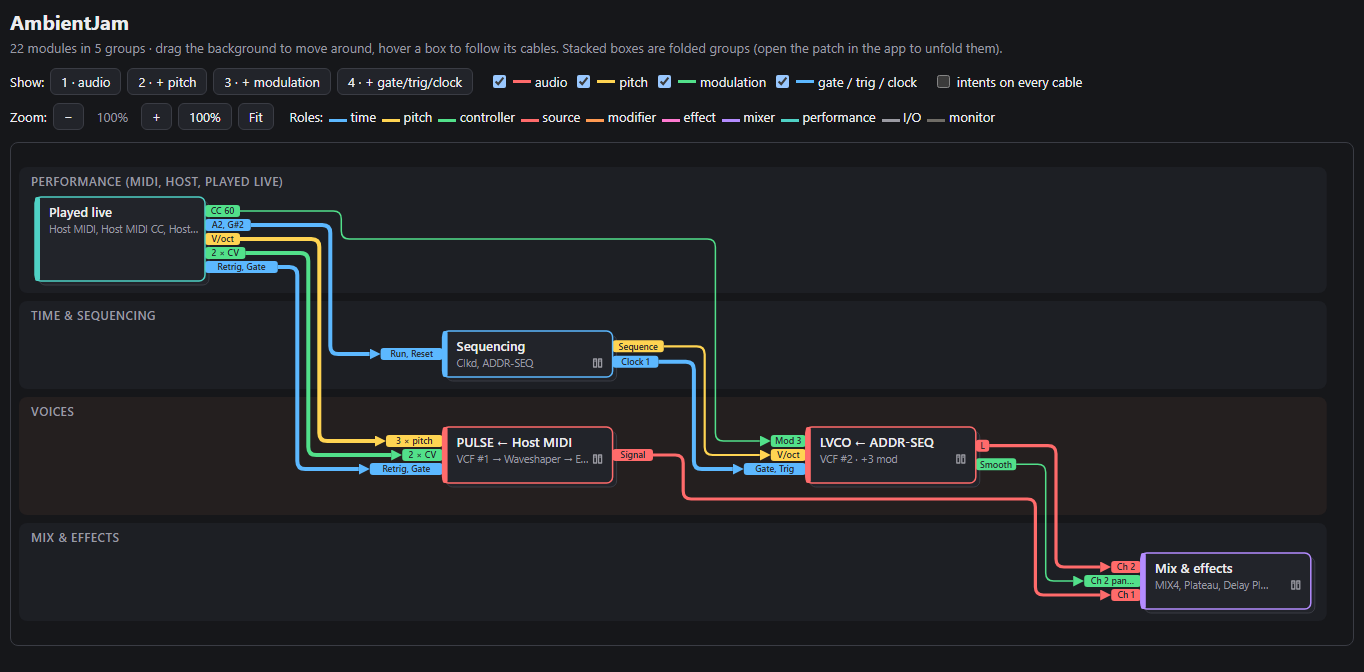
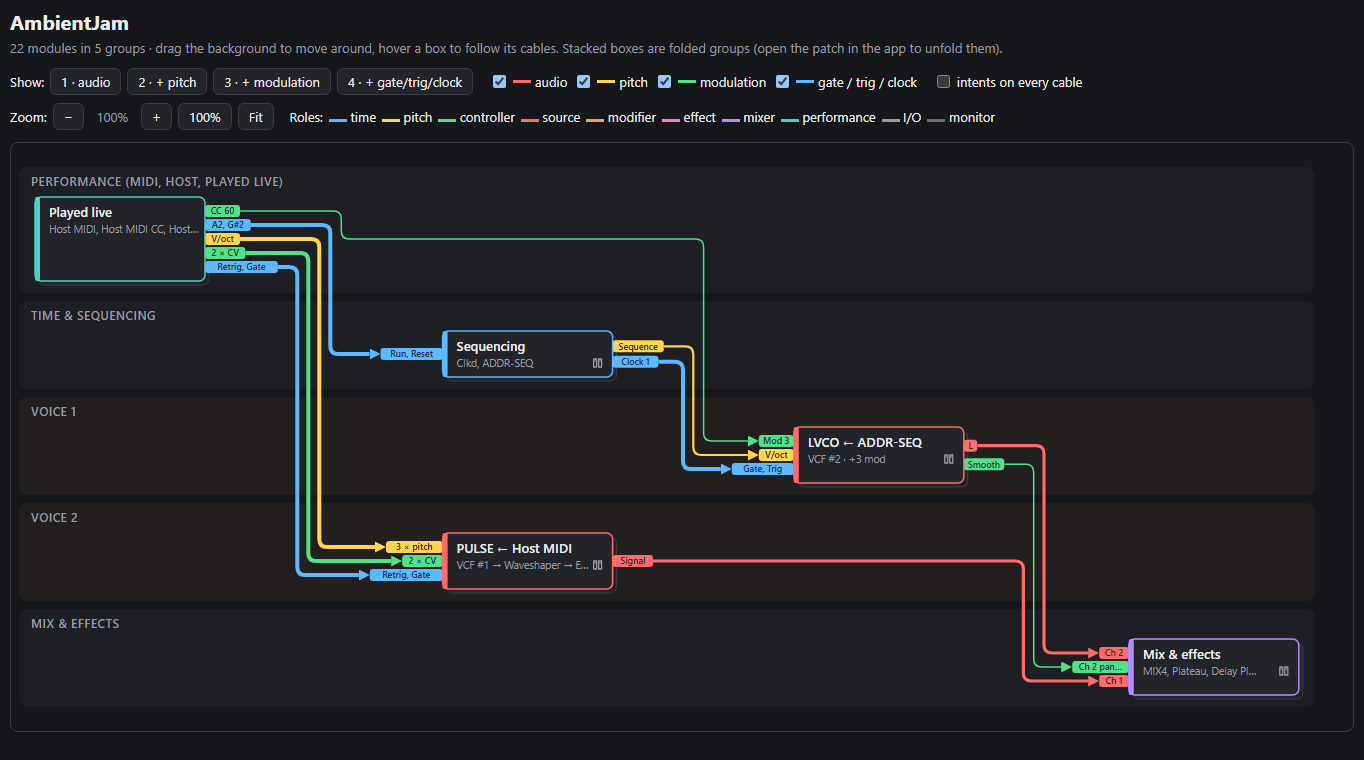
Give every voice its own lane, dock the module details at the bottom
- Each voice gets a lane from the start, folded or not, so unfolding one
  opens it where it stands; a band's members are what's drawn inside it,
  which fixes Mermaid/DOT exports listing every voice in each lane.
- Clicking to unfold or fold keeps the clicked group under the pointer.
- The web app remembers its display options (layers, intents, port and
  function names, library links, scopes) in the browser.
- The selected module's details take its role color and function icon,
  and show its VCV Library panel.
- The details sheet is docked at the bottom on every screen size; on a
  desktop the Diagram tab fits the window, the diagram scrolls on past
  the sheet, and a selected module hidden by it scrolls into view.
- Refresh the overview and web app screenshots.

diff --git a/src/VcvPatchTools.Web/wwwroot/css/app.css b/src/VcvPatchTools.Web/wwwroot/css/app.css
@@ -110,9 +110,18 @@ body:has(.vpd-root[data-theme="dark"]) { background: #16171a; color-scheme: dark
 .vpd-drop.compact { display: flex; gap: 10px; align-items: center; justify-content: flex-start; padding: 6px 10px; margin-bottom: 8px; }
 .vpd-drop.compact input, .vpd-drop.compact .vpd-link { margin-top: 0; }
 .vpd-drop.compact > div { display: inline; }
+/* Cable intent and module details: a sheet docked at the bottom of the screen, on every screen size. Under the diagram,
+   it would push the page down and take the top of the diagram out of view. */
+.vpd-panel { position: fixed; left: 0; right: 0; bottom: 0; z-index: 20; margin: 0; max-height: 45dvh; overflow: auto; border-radius: 12px 12px 0 0; box-shadow: 0 -4px 16px rgb(0 0 0 / 25%); }
+/* While the sheet is open, the diagram scrolls on past its bottom edge: every box can still be brought above the sheet. */
+.vpd-page:has(.vpd-panel) .vpd-scroll::after { content: ""; display: block; height: 45dvh; }
 .vpd-panel .close { float: right; margin: -4px -4px 0 8px; font: inherit; font-size: 18px; line-height: 1; padding: 4px 8px; border: none; background: none; color: var(--vpd-muted); cursor: pointer; }
 .vpd-panel ul { margin: 6px 0 0; padding-left: 18px; }
 .vpd-panel .lib-link { display: inline-block; margin-top: 8px; color: var(--vpd-time); }
+.vpd-panel.module { border-left: 5px solid var(--role-color); }
+.vpd-panel.module::after { content: ""; display: block; clear: both; }
+.vpd-panel .panel-shot { float: right; max-height: 190px; width: auto; margin: 0 0 8px 12px; border-radius: 4px; box-shadow: 0 1px 4px rgb(0 0 0 / 25%); }
+.vpd-panel .icon { fill: none; stroke: var(--role-color); stroke-width: 1.4; stroke-linecap: round; stroke-linejoin: round; vertical-align: -3px; margin-right: 6px; }
 .vpd-tabs { display: flex; gap: 4px; margin: 0 0 10px; border-bottom: 1px solid var(--vpd-line); }
 .vpd-tabs button { font: inherit; font-size: 14px; padding: 6px 14px; border: 1px solid transparent; border-bottom: none; border-radius: 8px 8px 0 0; background: none; color: var(--vpd-muted); cursor: pointer; margin-bottom: -1px; }
 .vpd-tabs button.active { color: var(--vpd-ink); background: var(--vpd-panel); border-color: var(--vpd-line); font-weight: 600; }
@@ -136,6 +145,13 @@ body:has(.vpd-root[data-theme="dark"]) { background: #16171a; color-scheme: dark
   .vpd-options-toggle { display: inline-block; }
   .vpd-options { display: none; }
   .vpd-options.open { display: flex; flex-wrap: wrap; gap: 8px 12px; width: 100%; padding: 8px; border: 1px solid var(--vpd-line); border-radius: 8px; background: var(--vpd-panel); }
-  /* Cable intent and module details: a sheet over the bottom of the screen, not a panel under a full-screen diagram. */
-  .vpd-panel { position: fixed; left: 0; right: 0; bottom: 0; z-index: 20; margin: 0; max-height: 45dvh; overflow: auto; border-radius: 12px 12px 0 0; box-shadow: 0 -4px 16px rgb(0 0 0 / 25%); }
+}
+
+/* Desktop: the Diagram tab fits the window, the diagram taking whatever height the title and toolbars leave (they wrap
+   on a narrow window). The page itself doesn't scroll, so the top of the diagram never goes out of view. */
+@media (min-width: 701px) and (min-height: 501px) {
+  .vpd-page:has(.vpd-scroll) { height: 100dvh; box-sizing: border-box; display: flex; flex-direction: column; }
+  .vpd-page:has(.vpd-scroll) > * { flex: none; }
+  .vpd-page:has(.vpd-scroll) > .vpd-root.interactive { flex: 1 1 auto; min-height: 0; display: flex; flex-direction: column; }
+  .vpd-page .vpd-root.interactive > .vpd-scroll { flex: 1 1 auto; max-height: none; }
 }

diff --git a/src/VcvPatchTools.Web/wwwroot/js/vpd.js b/src/VcvPatchTools.Web/wwwroot/js/vpd.js
@@ -21,3 +21,30 @@ window.vpdPanZoomDotNet = (scroller, view) =>
 
 // A mouse or trackpad as the main pointer: a desktop, whose file dialog can filter on the .vcv extension.
 window.vpdFinePointer = () => window.matchMedia('(pointer: fine)').matches;
+
+// Scrolls the diagram vertically by dy pixels, and the page by whatever the diagram's own scroll box couldn't take
+// (a diagram shorter than its box doesn't scroll).
+window.vpdShiftScroll = (scroller, dy) => {
+  const before = scroller.scrollTop;
+  scroller.scrollTop = before + dy;
+  const rest = dy - (scroller.scrollTop - before);
+  if (Math.abs(rest) >= 1) window.scrollBy(0, rest);
+};
+
+// A box of the diagram (x, y, width, height in the scroll box's content) hidden by the details sheet at the bottom of the
+// screen (see .vpd-panel in app.css) scrolls up above it.
+window.vpdRevealAboveSheet = (scroller, x, y, width, height) => {
+  const sheet = document.querySelector('.vpd-panel');
+  if (!sheet || getComputedStyle(sheet).position !== 'fixed') return;
+  const box = scroller.getBoundingClientRect();
+  // The sheet grows up to 45% of the screen (its panel image may still be loading): plan for its full height.
+  const visibleBottom = Math.min(box.bottom, window.innerHeight * 0.55) - box.top;
+  const top = y - scroller.scrollTop;
+  const margin = 12;
+  if (top + height + margin > visibleBottom) {
+    scroller.scrollBy({ top: Math.min(top + height + margin - visibleBottom, top - margin), behavior: 'smooth' });
+  }
+  if (x - scroller.scrollLeft < 0 || x + width - scroller.scrollLeft > scroller.clientWidth) {
+    scroller.scrollBy({ left: x - scroller.scrollLeft - margin, behavior: 'smooth' });
+  }
+};

diff --git a/src/VcvPatchTools.Diagram/Layout/LayeredLayout.cs b/src/VcvPatchTools.Diagram/Layout/LayeredLayout.cs
@@ -18,7 +18,7 @@ namespace VcvPatchTools.Diagram.Layout;
 /// vertical channel, ordered so cables of one gap don't cross (as in ELK's orthogonal edge router).
 /// A gap is as wide as its channels need, so busy gaps widen and quiet ones stay compact.</item>
 /// </list>
-/// Folded groups are one box each, sharing their band's lane; an unfolded group gets its own lane with its
+/// Folded groups are one box each, sharing their band's lane (a voice has a lane of its own); an unfolded group gets its own lane with its
 /// modules (inserts right under their host). Cables between the same two boxes with the same signal merge.
 /// Scopes and displays, when drawn as boxes, sit in one more column on the right, out of the flow: each as close as
 /// it can be to the height of what it watches, its cables running there on tracks like any other.
@@ -119,20 +119,39 @@ public static class LayeredLayout
         // The watchers' column comes after the last one.
         int drawnColumns = columns + (watchers.Count > 0 ? 1 : 0);
 
-        // Lanes: per band, one lane for its folded groups and single modules, then one lane per unfolded group.
+        // Lanes: per band, in the groups' order, an unfolded group gets its own lane where it stands, and so does every
+        // voice even folded; the other folded groups and single modules around them share a lane.
         List<(Band Band, string? Group, string Title, List<string> Boxes)> lanes = new List<(Band, string?, string, List<string>)>();
         foreach (Band band in Enum.GetValues<Band>().Where(b => b != Band.Monitor))
         {
-            List<PatchGroup> inBand = groups.Where(g => g.Band == band).ToList();
-            List<string> folded = inBand.Where(g => !HasOwnLane(g)).Select(g => ShowsModules(g) ? ModuleKey(g.Members[0]) : GroupKey(g.Key)).ToList();
-            if (folded.Count > 0)
+            List<string> folded = new List<string>();
+            void CloseFolded()
             {
-                lanes.Add((band, null, PatchGrouping.BandTitle(band, shared: false), folded));
+                if (folded.Count > 0)
+                {
+                    lanes.Add((band, null, PatchGrouping.BandTitle(band, shared: false), folded));
+                    folded = new List<string>();
+                }
             }
-            foreach (PatchGroup group in inBand.Where(HasOwnLane))
+            foreach (PatchGroup group in groups.Where(g => g.Band == band))
             {
-                lanes.Add((band, group.Key, group.Title, boxes.Where(b => b.StartsWith('m') && group.Members.Contains(ModuleIdOf(b))).ToList()));
+                if (HasOwnLane(group))
+                {
+                    CloseFolded();
+                    lanes.Add((band, group.Key, group.Title, boxes.Where(b => b.StartsWith('m') && group.Members.Contains(ModuleIdOf(b))).ToList()));
+                }
+                else if (band == Band.Voice)
+                {
+                    // Every voice has its own lane from the start, folded or not: unfolding one doesn't move the others.
+                    CloseFolded();
+                    lanes.Add((band, null, VoiceLaneTitle(group.Title), new List<string> { ShowsModules(group) ? ModuleKey(group.Members[0]) : GroupKey(group.Key) }));
+                }
+                else
+                {
+                    folded.Add(ShowsModules(group) ? ModuleKey(group.Members[0]) : GroupKey(group.Key));
+                }
             }
+            CloseFolded();
         }
         Dictionary<string, int> laneOf = new Dictionary<string, int>();
         for (int lane = 0; lane < lanes.Count; lane++)
@@ -417,6 +436,10 @@ public static class LayeredLayout
         double width = GapRight(drawnColumns - 1) + margin;
         return new DiagramLayout(title, width, y - 8 + margin, bands, nodes, edges, groups, analysis.Diagnostics);
     }
+
+    /// <summary>"Voice 1" from "Voice 1: LVCO ← ADDR-SEQ": the box inside already says the rest.</summary>
+    private static string VoiceLaneTitle(string groupTitle) =>
+        groupTitle.IndexOf(": ", StringComparison.Ordinal) is int colon and > 0 ? groupTitle[..colon] : groupTitle;
 
     /// <summary>"Scope 'Channel A' ← SLEW #1 'Signal'" for every monitor cable leaving this box (or a module folded in it).</summary>
     private static IReadOnlyList<string> WatchersOf(PatchAnalysis analysis, DiagramNode node, HashSet<long> visible, Dictionary<long, PatchGroup> groupOf) =>

diff --git a/tests/VcvPatchTools.Tests/Diagram/AnalyzerTests.cs b/tests/VcvPatchTools.Tests/Diagram/AnalyzerTests.cs
@@ -472,4 +472,17 @@ public class AnalyzerTests
             new[] { "Mix #2", "Sequential Switch 4 to 1 #2", "VCA #3", "VCO #2", "VCO #3" },
             zoneA.ModuleIds.Select(id => sub37.Module(id).Title).Order());
     }
+
+    [Fact]
+    public void EveryVoiceHasItsOwnLaneFoldedOrNot()
+    {
+        List<string> VoiceLanes(IReadOnlySet<string>? unfold) => PatchDiagram.Layout(analysis, "t", unfold).Bands
+            .Where(b => b.Band == Band.Voice).OrderBy(b => b.Y).Select(b => b.Group ?? b.Title).ToList();
+
+        // Unfolding a voice opens it in its own lane, where it already stood.
+        Assert.Equal(new[] { "Voice 1", "Voice 2" }, VoiceLanes(null));
+        Assert.Equal(new[] { "voice-1", "Voice 2" }, VoiceLanes(new HashSet<string> { "voice-1" }));
+        Assert.Equal(new[] { "Voice 1", "voice-2" }, VoiceLanes(new HashSet<string> { "voice-2" }));
+    }
+
 }

diff --git a/src/VcvPatchTools.Diagram/Layout/DiagramLayout.cs b/src/VcvPatchTools.Diagram/Layout/DiagramLayout.cs
@@ -139,8 +139,8 @@ public sealed record DiagramLayout(
 
     /// <summary>Boxes drawn in a band.</summary>
     public IEnumerable<DiagramNode> Members(DiagramBand band) =>
-        Nodes.Where(n => band.Group is not null ? n.Group == band.Group && !n.IsFolded
-            : band.IsVertical ? n.Band == band.Band : n.IsFolded && n.Band == band.Band);
+        // A band can hold several lanes of the same kind (one per voice): a horizontal band holds what's drawn inside it.
+        Nodes.Where(n => band.IsVertical ? n.Band == band.Band : n.Y >= band.Y && n.Y < band.Y + band.Height);
 
     /// <summary>Left edge and width of a band as drawn: horizontal bands span the diagram, with a small margin.</summary>
     public (double X, double Width) Extent(DiagramBand band) => band.IsVertical ? (band.X!.Value, band.Width!.Value) : (8, HorizontalBandsWidth - 16);

diff --git a/README.md b/README.md
@@ -37,11 +37,13 @@ flowchart LR
   subgraph b1["Time & sequencing"]
     n_g_time["Sequencing<br/>Clkd, ADDR-SEQ"]:::time
   end
-  subgraph b2["Voices"]
+  subgraph b2["Voice 1"]
     n_g_voice_1["LVCO ← ADDR-SEQ<br/>VCF #2 · +3 mod"]:::source
+  end
+  subgraph b3["Voice 2"]
     n_g_voice_2["PULSE ← Host MIDI<br/>VCF #1 → Waveshaper → EQ · +4 mod"]:::source
   end
-  subgraph b3["Mix & effects"]
+  subgraph b4["Mix & effects"]
     n_g_bus["Mix & effects<br/>MIX4, Plateau, Delay Plus Stereo Fx, Audio 2"]:::mixer
   end
   n_g_voice_1 ==>|"into MIX4"| n_g_bus
@@ -272,12 +274,12 @@ Open http://localhost:5016 and drop a `.vcv` file (or add `?sample=AmbientJam` t
 
 - unfold/fold boxes, or use **Overview** / **Unfold all**;
 - step through the layers, choose how to show scopes and displays (offered when the patch has some);
-- switch port names on the box edges and function names in the titles;
+- switch port names on the box edges and function names in the titles (these display options, the layers shown and the theme are remembered by your browser for the next visit and the next patch);
 - drag the background to pan, Ctrl + wheel to zoom;
 - hover a box to follow its cables, click a cable to edit its intent;
 - export `.html`, `.svg`, `.dot`, `.mmd` or `.json`.
 
-On a phone or tablet (portrait or landscape), the diagram fills the screen and opens fitted to its width; the options fold under **Options**. Drag with a finger anywhere to pan and pinch to zoom. Tap a module box for its ports, details and VCV Library link; tap a library icon once to see the panel, twice to open the page. The theme button switches between the system theme, light and dark. The exported `.html` page pans, pinches and previews panels the same way.
+On a phone or tablet (portrait or landscape), the diagram fills the screen and opens fitted to its width; the options fold under **Options**. Drag with a finger anywhere to pan and pinch to zoom. Tap a module box for its ports, details, panel and VCV Library link; tap a library icon once to see the panel, twice to open the page. The theme button switches between the system theme, light and dark. The exported `.html` page pans, pinches and previews panels the same way.
 
 <picture>
   <source media="(prefers-color-scheme: dark)" srcset="docs/screenshots/web-app-dark.png">
